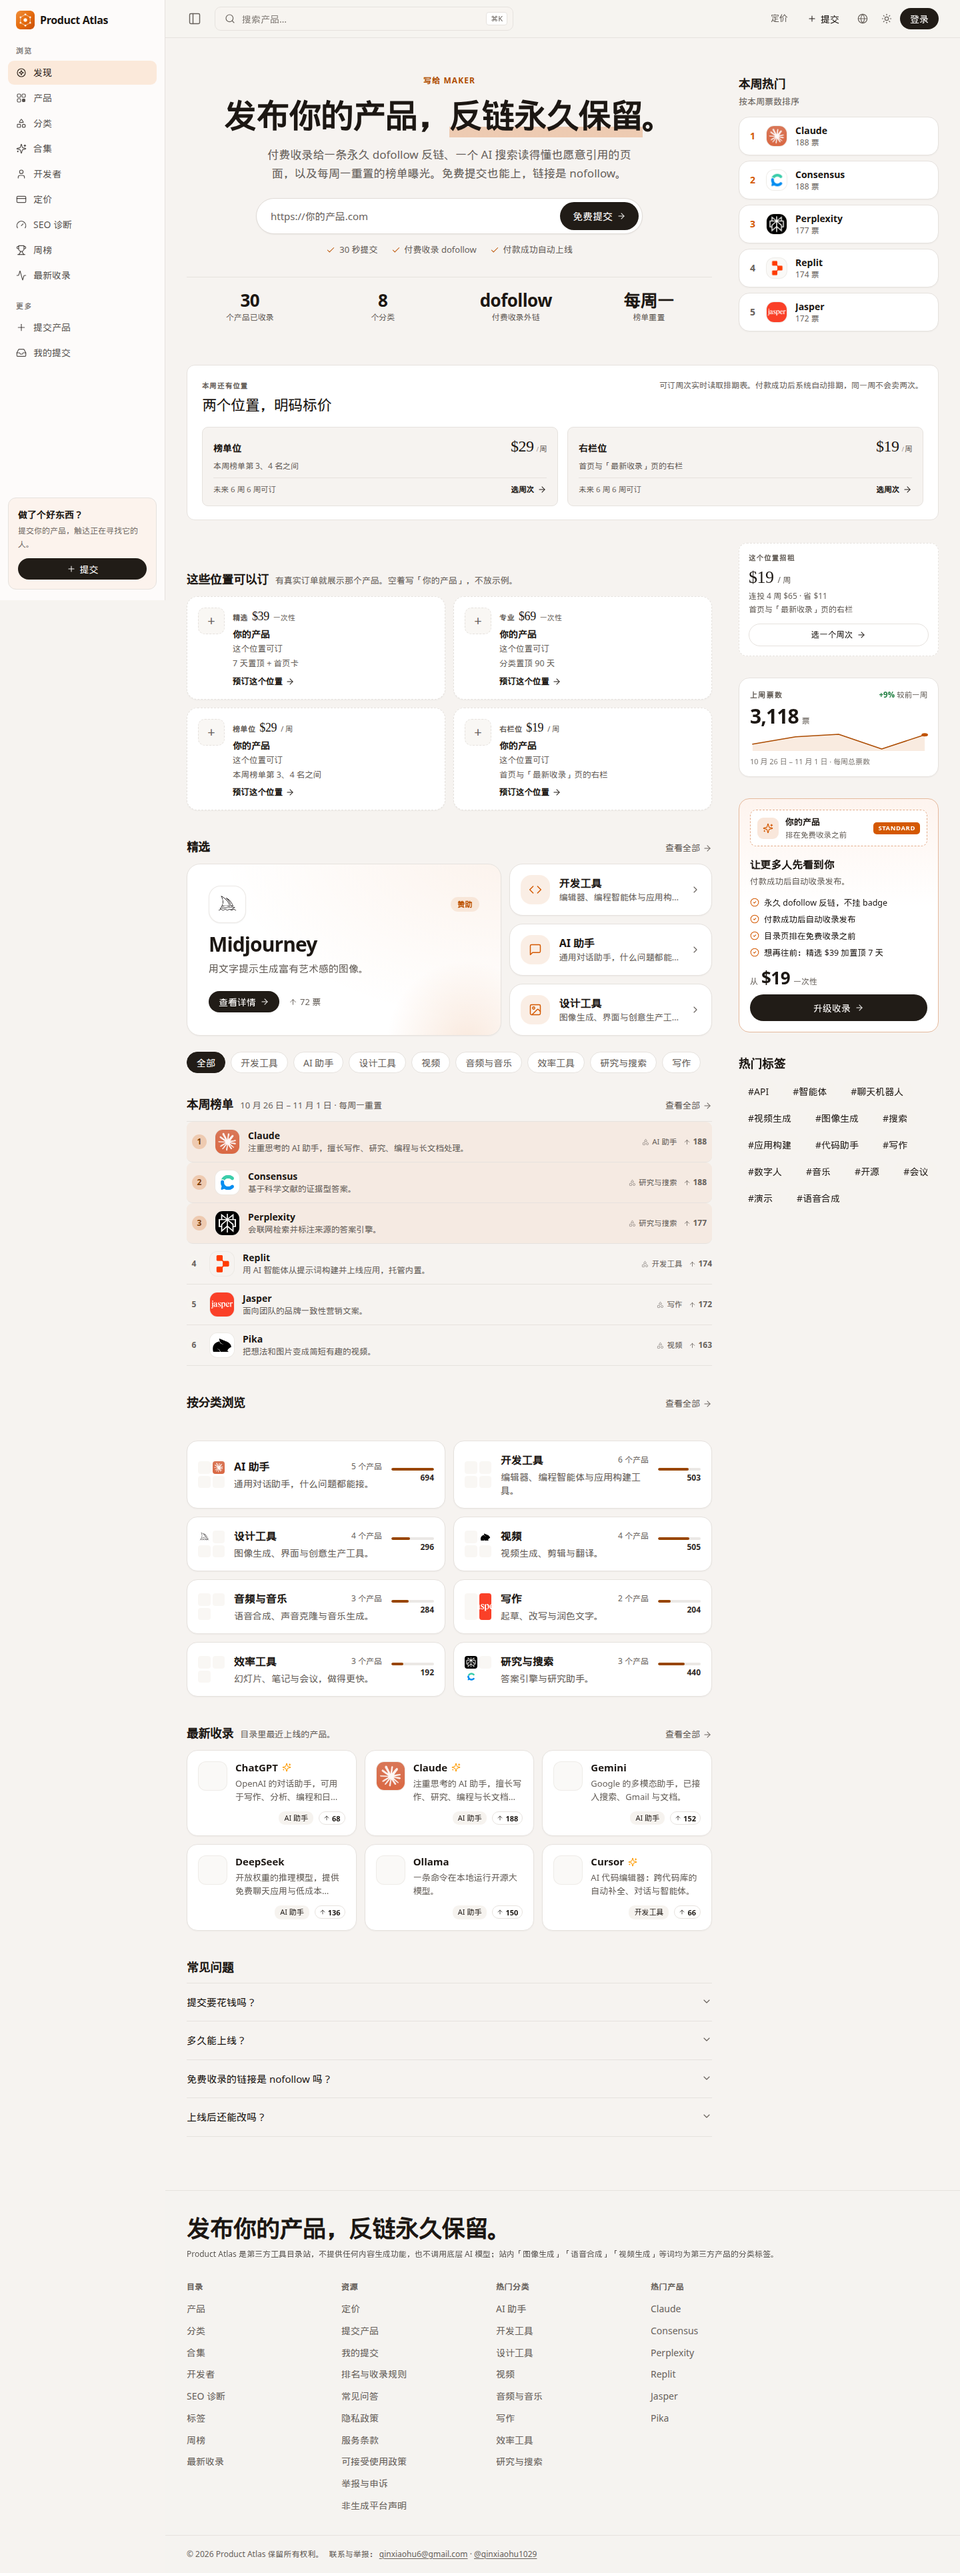
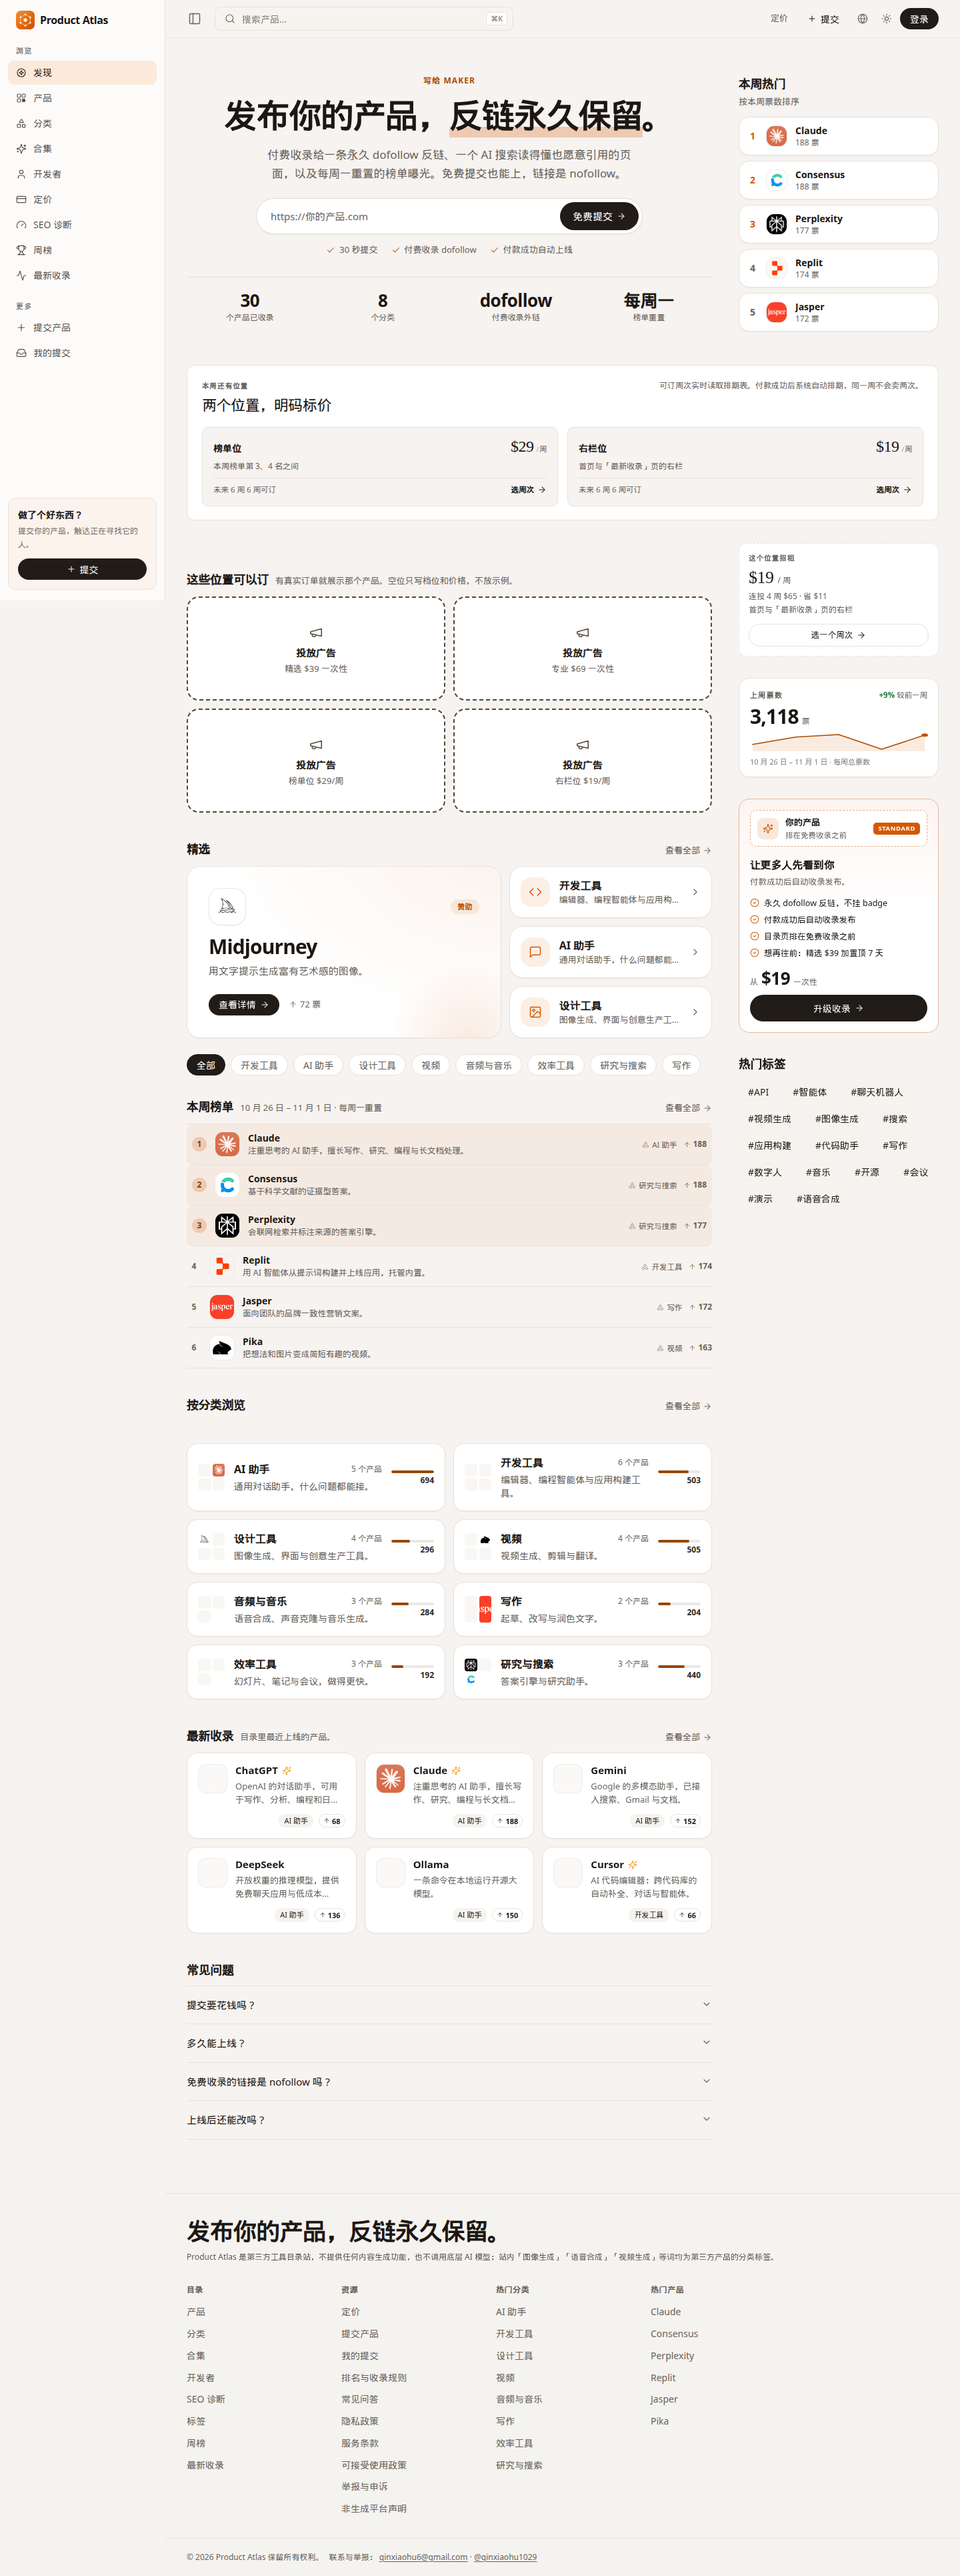
feat(home): 可订位空态改成虚线投放占位
空位居中放喇叭和「投放广告」，副文案只写档位名和现价，不编造剩余名额。
已有真实订单的位置仍显示产品卡。

diff --git a/nuxt/app/pages/index.vue b/nuxt/app/pages/index.vue
@@ -383,8 +383,8 @@ useHead({
               <p>
                 {{
                   pick(
-                    '有真实订单就展示那个产品。空着写「你的产品」，不放示例。',
-                    'A paid order shows that product. An empty spot says “Your product” and is not filled with a sample.',
+                    '有真实订单就展示那个产品。空位只写档位和价格，不放示例。',
+                    'A paid order shows that product. An empty spot shows the tier and its price, not a sample.',
                   )
                 }}
               </p>
@@ -418,20 +418,26 @@ useHead({
                 </span>
               </a>
               <NuxtLink
+                v-else-if="!offer.occupant"
+                class="offer-card offer-card--open"
+                :to="localePath(offer.href)"
+              >
+                <Icon name="megaphone" :size="22" />
+                <strong>{{ pick('投放广告', 'Advertise') }}</strong>
+                <span class="offer-card__sub">{{ offerSpotLine(offer, lang) }}</span>
+              </NuxtLink>
+              <NuxtLink
                 v-else
-                class="offer-card"
-                :class="{ 'is-taken': Boolean(offer.occupant) }"
-                :to="localePath(offer.occupant ? offer.occupant.href : offer.href)"
+                class="offer-card is-taken"
+                :to="localePath(offer.occupant.href)"
               >
                 <span class="offer-card__logo">
                   <ToolLogo
-                    v-if="offer.occupant"
                     :logo="offer.occupant.logo"
                     :name="offer.occupant.name"
                     :size="40"
                     decorative
                   />
-                  <span v-else class="offer-card__ghost" aria-hidden="true">+</span>
                 </span>
                 <span class="offer-card__body">
                   <span class="offer-card__kicker">
@@ -439,17 +445,11 @@ useHead({
                     <b>{{ offer.price }}</b>
                     <small>{{ pick(offer.unit.zh, offer.unit.en) }}</small>
                   </span>
-                  <strong>{{ offer.occupant ? offer.occupant.name : pick('你的产品', 'Your product') }}</strong>
-                  <span class="offer-card__line">
-                    {{
-                      offer.occupant
-                        ? offer.occupant.line
-                        : pick('这个位置可订', 'This spot is open')
-                    }}
-                  </span>
+                  <strong>{{ offer.occupant.name }}</strong>
+                  <span v-if="offer.occupant.line" class="offer-card__line">{{ offer.occupant.line }}</span>
                   <span class="offer-card__detail">{{ pick(offer.detail.zh, offer.detail.en) }}</span>
                   <span class="offer-card__cta">
-                    {{ offer.occupant ? pick('查看', 'View') : pick('预订这个位置', 'Book this spot') }}
+                    {{ pick('查看', 'View') }}
                     <Icon name="arrow-right" :size="14" />
                   </span>
                 </span>

diff --git a/nuxt/shared/utils/home-offers.test.ts b/nuxt/shared/utils/home-offers.test.ts
@@ -8,6 +8,7 @@ import {
   categoryBrowseModel,
   emptyCategoryLinks,
   homeOfferSlots,
+  offerSpotLine,
   type BrowseTool,
   type OfferListing,
 } from './home-offers.ts'
@@ -120,6 +121,15 @@ test('offer slots keep the published prices and stay empty without a real order'
   assert.deepEqual(slots[3]?.href, { path: '/book-ad', query: { slot: 'sidebar', weeks: '1' } })
   assert.equal(slots[0]?.detail.zh, '7 天置顶 + 首页卡')
   assert.equal(slots[1]?.detail.zh, '分类置顶 90 天')
+  assert.equal(offerSpotLine(slots[0]!, 'zh'), '精选 $39 一次性')
+  assert.equal(offerSpotLine(slots[0]!, 'en'), 'Featured $39 one-time')
+  assert.equal(offerSpotLine(slots[1]!, 'zh'), '专业 $69 一次性')
+  assert.equal(offerSpotLine(slots[1]!, 'en'), 'Pro $69 one-time')
+  assert.equal(offerSpotLine(slots[2]!, 'zh'), '榜单位 $29/周')
+  assert.equal(offerSpotLine(slots[2]!, 'en'), 'Board slot $29/week')
+  assert.equal(offerSpotLine(slots[3]!, 'zh'), '右栏位 $19/周')
+  assert.equal(offerSpotLine(slots[3]!, 'en'), 'Sidebar slot $19/week')
+  assert.equal(slots.some((slot) => /spots left|\d+\/\d+/.test(offerSpotLine(slot, 'en'))), false)
 })
 
 test('catalogue seed and unpaid intent do not fill a spot; a paid order does', () => {
@@ -193,8 +203,16 @@ test('the homepage no longer hosts the four benefit cards, and pricing does', ()
   assert.equal(home.includes('收录后你能得到什么'), false)
   assert.equal(home.includes('cat-card__mix-empty'), false)
   assert.equal(home.includes('这些位置可以订'), true)
-  assert.equal(home.includes('你的产品'), true)
-  assert.equal(home.includes('这个位置可订'), true)
+  const offers = home.slice(home.indexOf('id="home-offers"'), home.indexOf('id="browse-by-category"'))
+  assert.equal(offers.includes('投放广告'), true)
+  assert.equal(offers.includes('Advertise'), true)
+  assert.equal(offers.includes('megaphone'), true)
+  assert.equal(offers.includes('offer-card--open'), true)
+  assert.equal(offers.includes('is-taken'), true)
+  assert.equal(offers.includes('你的产品'), false)
+  assert.equal(offers.includes('Your product'), false)
+  assert.equal(offers.includes('spots left'), false)
+  assert.equal(offers.includes('Your ad here'), false)
   assert.equal(home.includes('成为该分类第一个'), true)
   assert.equal(home.includes('赞助这个分类'), true)
   assert.equal(pricing.includes('收录后你能得到什么'), true)

diff --git a/nuxt/app/assets/css/legacy.css b/nuxt/app/assets/css/legacy.css
@@ -4231,12 +4231,52 @@ kbd {
   align-items: flex-start;
   gap: 12px;
   padding: 16px;
-  border: 1px dashed var(--border);
+  border: 1px solid var(--border);
   border-radius: var(--radius-xl);
   background: var(--card);
   color: inherit;
   text-decoration: none;
   box-shadow: 0 1px 2px rgb(28 22 16 / 0.04);
+}
+
+/* Empty spot: centered megaphone placeholder, not a product card.
+   The dashed stroke stays dark gray in both themes. No inventory count. */
+.offer-card--open {
+  flex-direction: column;
+  align-items: center;
+  justify-content: center;
+  gap: 0;
+  min-height: 156px;
+  padding: 28px 16px 24px;
+  text-align: center;
+  border: 2px dashed oklch(40% 0.025 70);
+  border-radius: 18px;
+  background: var(--card);
+  box-shadow: none;
+}
+
+.offer-card--open .ic {
+  width: 22px;
+  height: 22px;
+  color: oklch(42% 0.025 70);
+}
+
+.offer-card--open strong {
+  display: block;
+  margin-top: 10px;
+  font-size: 15px;
+  font-weight: 650;
+  line-height: 1.3;
+  letter-spacing: -0.01em;
+  color: var(--foreground);
+}
+
+.offer-card--open .offer-card__sub {
+  display: block;
+  margin-top: 4px;
+  font-size: 13px;
+  line-height: 1.4;
+  color: var(--muted-foreground);
 }
 
 .offer-card.is-taken {
@@ -4245,6 +4285,11 @@ kbd {
 
 .offer-card:hover {
   border-color: color-mix(in oklab, var(--primary) 45%, var(--border));
+}
+
+.offer-card--open:hover {
+  border-color: oklch(30% 0.025 70);
+  background: var(--card);
 }
 
 .offer-card__logo {

diff --git a/nuxt/shared/utils/home-offers.ts b/nuxt/shared/utils/home-offers.ts
@@ -132,6 +132,18 @@ export type HomeOfferSlot = {
   occupant: OfferOccupant | null
 }
 
+/**
+ * Empty-slot subtitle. Name and price come from the pricing tables.
+ * There is no inventory count here — a "spots left" line waits until a
+ * real remaining-capacity number exists.
+ */
+export function offerSpotLine(slot: Pick<HomeOfferSlot, 'name' | 'price' | 'unit'>, locale: 'zh' | 'en'): string {
+  const unit = slot.unit[locale].replace(/\s+/g, '')
+  const name = slot.name[locale]
+  if (unit.startsWith('/')) return `${name} ${slot.price}${unit}`
+  return `${name} ${slot.price} ${unit}`
+}
+
 function paidListing(listings: OfferListing[], plan: 'featured' | 'pro'): OfferListing | undefined {
   return listings.find((tool) => tool.plan === plan && tool.is_paid && tool.slug && tool.name)
 }
